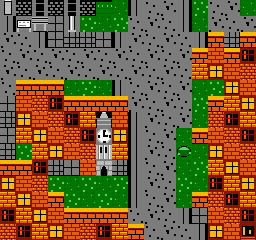
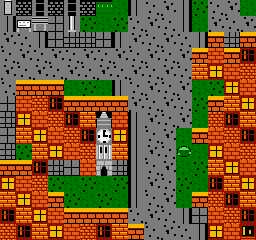
PARK-IN-THE-DARK-BAND: the walkable park leaves the light group, and check 13's exemption list goes empty (card t_b01c88ff)
Section 20.8 named this hole and carded it: card t_454c1876 moved the street under the party to the two dark entries
and left the park light, so the three walkable grass tiles were the only exemption tools/check_ts_exterior.py check 13
carried. They drew H $2A #58d854 at 0.518, and the party walks in near white bodies ($30 0.973, $31 0.704, $28 0.542),
which is the white blob RULE 0 point 2 refuses. Measured on the frame tools/art/make_exterior_maps.py composes for
Westminster, at the park cell the party can reach (map cell 14,24, --at 96,176), the four walking sheets failed 56
pairs on ground $2A: white_blob 24 and body_ground 32.

What changed.

- tools/art/make_ts_exterior.py: the three walkable grass tiles drop H and draw G $09 #007800 (0.134) as the field,
  D $0A #006800 (0.099) as the shade and the shared backdrop $0F (0.000) where the light accent was, in the same
  shapes. Per tile on the regenerated sheet: grass_a G 205 D 47 black 4, grass_b G 222 D 10 black 24, grass_c G 125
  D 127 black 4, worst walkable luminance 0.134. H stays solid-only (three tree canopies, two hedges, the green
  awning); bg2_green keeps all three entries, so no scene palette, no sprite row and no area budget moves.
- game/sprites_src/env/ts_exterior.png and .json: regenerated by that generator, which reproduces its own bytes.
- tools/check_ts_exterior.py: WALKABLE_LIGHT_EXEMPT is empty; check 13 holds all 20 walkable tiles with 0 exemptions.
[…]

diff --git a/tools/art/make_ts_exterior.py b/tools/art/make_ts_exterior.py
@@ -23,6 +23,16 @@ No tile a player can walk on draws either of them, and tools/check_ts_exterior.p
 tile. The three towns' spawn frames measured 36, 88 and 32 pair failures before this and 0 after
 (knowledge/PALETTE-RULINGS-2026-10-25.md section 20).
 
+THE PARK IS IN THE SAME BAND NOW, BY THE SAME MEASUREMENT (card t_b01c88ff, 2026-10-25). The park's three
+walkable tiles were the last exemption check 13 carried, because they filled with H $2A #58d854 at 0.518: a $30
+body on it measures white_blob and $28 measures body_ground. H is now off every walkable grass tile and stays
+only on the SOLID planting and the green awning, so bg2_green's three entries, every scene palette and every
+area budget are untouched. What is left under a player's feet is G $09 #007800 (0.134) as the field and D $0A
+#006800 (0.099) as its shade, with the shared backdrop $0F (0.000) taking over the role H played: the light
+accent became the dark accent, in the same shapes, so a tuft still reads at 3.68:1 against the field instead of
+3.09:1. Measured on the frame tools/art/make_exterior_maps.py composes for Westminster, at the park cell the
+party can reach, in knowledge/PALETTE-RULINGS-2026-10-25.md section 22.
+
 Background tiles on a NES are opaque: the PPU has no transparency on the background layer, so every street
 object here is drawn on its own ground (pavement grey under the phone box and the lamp, grass green under the
 tree and the hedge). That is also why a prop tile spends one of its 3 colours on its shadow ring.
@@ -59,6 +69,8 @@ PALETTES = {
     "bg4_red":   {"M": 0, "S": 22, "W": 48},      # $00 #7c7c7c (shared with stone), $16 #f83800, $30 #fcfcfc
     "bg5_plant": {"G": 9, "A": 7, "M": 0},        # $09 #007800, $07 #881400, $00 #7c7c7c (bark on grass)
 }
+# bg2_green's H is SOLID ONLY since card t_b01c88ff: the tree canopies, the hedges and the green awning keep it,
+# and no walkable grass tile draws it any more, because 0.518 is a light ground under RULE 0 point 2.
 BACKDROP_ENTRY = 15
 BACKDROP_HEX = "#000000"
 
@@ -215,6 +227,15 @@ def cobbles(pattern: int):
 
 
 def grass(variant: int):
+    """The park's walkable ground: G field, D shade, and the backdrop where the light accent used to be.
+
+    Card t_b01c88ff, 2026-10-25: these three tiles were check 13's only exemption because they drew H $2A at
+    0.518, a light ground under RULE 0 point 2, and the party walks in $30, $31 and $28. H is off every walkable
+    grass tile now and stays on the SOLID planting (tree canopies, hedges) and the green awning, so the shapes
+    below are the ones they always were with the LIGHT accent read as the DARK accent: the backdrop $0F at
+    0.000 where H was, at 3.68:1 against the field, and D $0A left holding the mid shade. Two greens 1.23:1
+    apart would have been a flat field, which is why the accent moved to black rather than to the shade.
+    """
     def build(g: Grid) -> None:
         g.fill("G")
         if variant == 0:
@@ -222,16 +243,16 @@ def grass(variant: int):
                 for x in (0, 6, 12):
                     g.rect(x, y, x + 1, y + 1, "D")
             for x, y in [(3, 7), (11, 3), (7, 13), (14, 10)]:
-                g.px(x, y, "H")
+                g.px(x, y, "k")
         elif variant == 1:
             for x, y in [(2, 2), (9, 2), (14, 6), (5, 8), (11, 11), (3, 14)]:
-                g.rect(x, y, x + 1, y + 1, "H")
+                g.rect(x, y, x + 1, y + 1, "k")
             for x, y in [(6, 4), (0, 10), (13, 15)]:
                 g.rect(x, y, x + 1, y + 1, "D")
         else:
-            g.checker("H", phase=1, step=2)
+            g.checker("D", phase=1, step=2)
             for x, y in [(1, 1), (8, 5), (4, 12), (12, 14)]:
-                g.px(x, y, "D")
+                g.px(x, y, "k")
     return build
 
 

diff --git a/tests/test_check_ts_exterior.py b/tests/test_check_ts_exterior.py
@@ -1,0 +1,80 @@
+"""Tests for tools/check_ts_exterior.py check 13, the walkable band (card t_b01c88ff).
+
+Why this file exists: check 13 refuses a ground at or above RULE 0 point 2's 0.25 light line under the party,
+whose four walking sheets carry near white bodies. Its only exemption was the park's grass, which drew H $2A
+#58d854 at 0.518. Card t_b01c88ff darkened the tile instead of weakening the check, so three things have to hold
+afterwards and each is arithmetic rather than a look:
+
+  - the exemption list is EMPTY, because a list with the park in it after the fix would permit exactly the thing
+    the check exists to stop;
+  - no walkable tile on ts_exterior.png draws an entry at or above 0.25 luminance, measured through the check's
+    own function and its own palette table;
+  - the ground under the judged park row on the composed Westminster frame is the two dark greens and the shared
+    backdrop, and nothing else, so the row that says "0 failing pairs" is measuring the park.
+
+Nothing in the suite ran check 13 before this file: the tool existed and was green, but a regeneration that put
+$2A back on the grass would have been caught only by whoever remembered to run it.
+"""
+
+from __future__ import annotations
+
+import json
+import os
+import sys
+
+from PIL import Image
+
+ROOT = os.path.dirname(os.path.dirname(os.path.abspath(__file__)))
+sys.path.insert(0, os.path.join(ROOT, "tools"))
+sys.path.insert(0, os.path.join(ROOT, "tools", "art"))
+
+import check_ts_exterior  # noqa: E402
+import contrast_check  # noqa: E402
+
+LIGHT_GROUND = 0.25
+PARK_CARD = "card t_b01c88ff"
+
+
+def tileset_meta() -> dict:
+    with open(os.path.join(ROOT, "game", "sprites_src", "env", "ts_exterior.json"),
+              encoding="utf-8-sig") as handle:
+        return json.load(handle)
+
+
+def park_row() -> dict:
+    """The judged row card t_b01c88ff wrote in westminster's scene file."""
+    with open(os.path.join(ROOT, "data", "palettes", "scene_westminster.json"),
+              encoding="utf-8-sig") as handle:
+        payload = json.load(handle)
+    rows = [row for row in payload.get("judged", []) if str(row.get("note", "")).startswith(PARK_CARD)]
+    assert len(rows) == 1, rows
+    return rows[0]
+
+
+def test_the_walkable_band_exemption_list_is_empty():
+    """The park was the last exemption. A new one has to be a decision in a diff, so this pins the list empty."""
+    assert check_ts_exterior.WALKABLE_LIGHT_EXEMPT == {}, (
+        "check 13 exempts %s; card t_b01c88ff closed the park and the list is meant to be empty"
+        % sorted(check_ts_exterior.WALKABLE_LIGHT_EXEMPT))
+
+
+def test_no_walkable_tile_draws_an_entry_at_or_above_the_light_line():
+    rep = check_ts_exterior.Report()
+    check_ts_exterior.check_walkable_band(ROOT, tileset_meta(), rep)
+    assert rep.fails == [], rep.fails
+    assert rep.lines and rep.lines[0].startswith("PASS"), rep.lines
+
+
+def test_the_park_ground_on_the_composed_frame_is_the_two_dark_greens():
+    row = park_row()
+    background = row["background"]
+    at = row["at"]
+    image = Image.open(os.path.join(ROOT, background.replace("/", os.sep))).convert("RGB")
+    box = (at[0], at[1], at[0] + 16, at[1] + 16)
+    colours = {"#%02x%02x%02x" % px for px in image.crop(box).getdata()}
+    assert colours <= {"#007800", "#006800", "#000000"}, (
+        "%s at %s carries %s; the walkable park is G $09, D $0A and the shared backdrop only"
+        % (background, at, sorted(colours)))
+    for hex_code in colours:
+        rgb = tuple(int(hex_code[i:i + 2], 16) for i in (1, 3, 5))
+        assert contrast_check.luminance(rgb) < LIGHT_GROUND, (hex_code, contrast_check.luminance(rgb))

diff --git a/tests/test_scene_palette_set.py b/tests/test_scene_palette_set.py
@@ -530,16 +530,35 @@ def test_each_town_judged_row_names_the_four_walking_sheets_on_its_own_frame():
     five background palettes and a scene spends four: measured 2026-10-25, it reports 7 palette_count problems
     on southampton and 4 on each of the other two, so as a ground it can never be clean and would charge its own
     background failures to the sprites standing on it (the defect card t_1dc346b9 ruled on).
+
+    Card t_b01c88ff added a SECOND row to westminster and only to westminster: the park, which is the ground the
+    party walks in and the one check 13 carried as an exemption until the grass was darkened. A row on the park
+    is where the light grass showed up as 56 failing pairs before the fix, so it is the number that says the fix
+    is real. The other two towns carry no park cell inside their 15 tile tall frames, which is why they hold no
+    such row rather than a row that measures pavement.
     """
     rows = [row for row in judged_rows() if row["scene"] in TOWNS]
-    assert len(rows) == 3, rows
-    for row in rows:
+    spawn = [row for row in rows if row["at"] == [128, 112]]
+    park = [row for row in rows if row["at"] != [128, 112]]
+    assert len(spawn) == 3, spawn
+    for row in spawn:
         assert row["background"] == "output/%s_sample_frame.png" % row["scene"], row["background"]
         assert row["at"] == [128, 112], row["at"]
         assert [os.path.basename(path) for path in row["sprites"]] == list(WALKING_SHEETS), row["sprites"]
         assert not row.get("exempt"), "the three towns carry the cast, so the rows are enforced, not exempt"
         assert not row.get("by_product"), row
         assert "ts_exterior" in row["note"], "the row has to say why the atlas is not the ground"
+    assert len(park) == 1, park
+    row = park[0]
+    assert row["scene"] == "westminster", row["scene"]
+    assert row["background"] == "output/westminster_sample_frame.png", row["background"]
+    # Map cell 14,24 is grass_a, reached from the spawn, and the frame crop starts at tile 8,13 (x0 8, y0 13).
+    assert row["at"] == [96, 176], row["at"]
+    assert [os.path.basename(path) for path in row["sprites"]] == list(WALKING_SHEETS), row["sprites"]
+    assert not row.get("exempt") and not row.get("by_product"), row
+    assert "t_b01c88ff" in row["note"] and "section 22" in row["note"], (
+        "the park row has to name the card and the ruling section that closed the exemption")
+    assert "0 failing pair(s)" in row["note"], row["note"]
 
 
 def test_the_towns_ground_is_the_frame_their_generator_writes():

diff --git a/tools/check_ts_exterior.py b/tools/check_ts_exterior.py
@@ -28,8 +28,10 @@ Every rule below is measured against the files on disk, not restated from the ge
     backdrop, and tools/nes_composite_check.py passes over each 256x240 frame. This tool does not restate the
     NES rules, it runs them.
 13. Every tile a player can walk on draws only entries under 0.25 luminance, because the party's walking bodies
-    are near white and RULE 0 point 2 refuses a near white body on a light ground. Named exemptions carry the
-    card that ends them (today: the park's grass, card t_b01c88ff).
+    are near white and RULE 0 point 2 refuses a near white body on a light ground. The exemption list is empty:
+    the park was its last member and the grass was darkened on card t_b01c88ff (knowledge/PALETTE-RULINGS-2026-10-25.md
+    section 22). The list stays in the tool so a future exemption is a decision that shows up in a diff with a
+    card name on it, not a quiet pass.
 
 Exit 0 when every check passes, 1 when any fails, with each failure on its own line.
 
@@ -61,10 +63,10 @@ MAP_W, MAP_H = 32, 30
 # white body 0.60). A ground at or above this luminance turns the party's $30, $31 and $28 bodies into the white
 # blob RULE 0 refuses, so no tile a player can walk on may draw an entry at or above it.
 LIGHT_GROUND = 0.25
-# Walkable tiles that are still light, each named with the card that ends the exemption. Measured 2026-10-25:
-# the park's grass draws H $2A #58d854 at 0.518, which is the same white blob hazard on a surface card
-# t_454c1876 did not touch (it moved the paving, not the park). Card t_b01c88ff closes it.
-WALKABLE_LIGHT_EXEMPT = {"grass_a": "t_b01c88ff", "grass_b": "t_b01c88ff", "grass_c": "t_b01c88ff"}
+# Walkable tiles still light, each named with the card that ends it. EMPTY since card t_b01c88ff: the park's
+# grass drew H $2A #58d854 at 0.518, the white blob hazard card t_454c1876 did not touch. The three walkable
+# grass tiles were darkened instead, not this check weakened; the list stays so an exemption shows in a diff.
+WALKABLE_LIGHT_EXEMPT: dict[str, str] = {}
 SAMPLE_MAPS = ("westminster_sample", "winchester_sample", "southampton_sample")
 CARD_FEATURES = [
     "road with centre line", "kerb", "pavement", "cobbles", "brick building walls (3 variants)",

diff --git a/knowledge/PALETTE-RULINGS-2026-10-25.md b/knowledge/PALETTE-RULINGS-2026-10-25.md
@@ -1858,3 +1858,141 @@ HEAD, `tools/art/make_env_ship.py`, `tools/art/make_ship_tiles.py`, `tests/test_
 `data/maps/ship_sample_tiled.json`, `knowledge/SHIP-PALETTE-DRIFT-2026-10-25.md`, and the commit history of all of
 them). No decompiled material was read for this card and no expression from any game is in it. Copied expression:
 none.
+
+## 22. The park leaves the light group: the walkable grass was the last exemption check 13 carried, and the fix is in the tile rather than in the check (card t_b01c88ff)
+
+Section 20.8 named this hole and carded it: the street under the party moved to the two dark entries, and the park stayed
+light. This section closes it with the same instrument the street was judged by, and it records the one design call that
+the card left open, which is what a park made of two greens that are 1.24:1 apart is supposed to look like.
+
+### 22.1 The numbers the card came with, re-measured through the tool
+
+All read from `tools/art/contrast_check.py`'s 2C02 table through `tools/palette_synergy.py`'s `Grid`, not restated:
+
+| entry | hex | luminance | row | hue | who wears it |
+| --- | --- | --- | --- | --- | --- |
+| `$2A` | `#58d854` | 0.518 | 2 | hue_A | the walkable grass before this card, and the tree canopies, hedges and green awning after it |
+| `$09` | `#007800` | 0.134 | 0 | hue_9 | `bg2_green`'s G, the park's field after this card |
+| `$0A` | `#006800` | 0.099 | 0 | hue_A | `bg2_green`'s D, the park's shade |
+| `$0F` | `#000000` | 0.000 | 0 | grey | the shared backdrop, the park's accent after this card |
+| `$00` | `#7c7c7c` | 0.202 | 0 | grey | the walkable street (section 20) |
+| `$30` | `#fcfcfc` | 0.973 | 3 | grey | percy's and hadrian's body |
+| `$31` | `#a4e4fc` | 0.704 | 3 | hue_1 | zander's body |
+| `$28` | `#f8b800` | 0.542 | 2 | hue_8 | konrad's body |
+
+Contrast between the candidate grounds and the four bodies, measured on this tree: `$30` on G 5.55:1 (3 rows), `$31` on G
+4.09:1 (3 rows), `$28` on G 3.21:1 (2 rows), and `$00` on G 1.36:1 (0 rows). That last line is the reason hadrian's suit
+had to move in section 20.5 rather than the street: a `$00` body clears no dark ground either.
+
+Three tiles carry the grass: `grass_a` (index 13), `grass_b` (14) and `grass_c` (62), all `bg2_green`, all `solid: false`
+in `game/sprites_src/env/ts_exterior.json`. `tools/art/make_exterior_maps.py` paints OSM park cells with `grass_a` and
+`grass_b` only (`remap_cell`, `name == "park"`), so a composed town frame can never show `grass_c`; check 13 still holds
+all three, because a later card can place the third variant without any measurement moving.
+
+### 22.2 The ground the party actually stands on, and what it measured
+
+The frame a town is judged on is a 16 by 15 tile crop around its spawn (`render_frame`), so whether a town can even show
+the park is arithmetic on its map. Measured on the three maps at this commit:
+
+| town | crop origin | spawn | park cells inside the frame | reachable from the spawn |
+| --- | --- | --- | --- | --- |
+| westminster | 8, 13 | 16, 20 | 31, every one of them walkable | 24, over 511 walkable cells |
+| southampton | 9, 11 | 17, 18 | 0 | 0 |
+| winchester | 8, 12 | 16, 19 | 0 | 0 |
+
+So Westminster is the only town that can hold a judged row about the park, and two of its park cells were measured. Before
+this card, on the frame HEAD ships, at `--at 96,176` (map cell 14,24, `grass_a`) and at `--at 80,176` (map cell 13,24,
+`grass_b`), the party's four walking sheets measured **56 failing pairs each**, every one of them on ground `$2A`:
+`white_blob` 24 and `body_ground` 32, which is percy 8 plus 8, konrad 8, zander 8 plus 8, hadrian 8 plus 8. The cast half
+was already clean (0 uncovered 8x8 tiles on all four sheets), so the 56 were the ground and nothing else.
+
+After the fix, on the regenerated frame, at the same two positions: **0 failing pairs, 0 cast problems**, every sheet's
+body on ground `$09`, `$0A` and `$0F`.
+
+### 22.3 Q1: what a walkable park can be made of
+
+`bg2_green` is `$09 $0A $2A` and the row does not move (section 22.5). Under RULE 0 point 2's 0.25 line exactly two of its
+three entries are legal under a foot: G `$09` at 0.134 and D `$0A` at 0.099, plus the shared backdrop `$0F` at 0.000,
+which every palette row shares and which the street already uses for its joints (section 20.4). The light `$2A` at 0.518
+is legal exactly where nothing walks on it, and that is where it stays: the three tree canopies, the two hedges and the
+green awning, all `solid: true`.
+
+The card's first price was this one, and the measurement agrees with it. Its second price (a second, darker walking triple
+for the party) is refused by the hardware for the reason section 16.6 and section 20.7 already gave: a scene has four
+sprite palettes, all four are the party's walking triples here, and there is no fifth row to darken.
+
+### 22.4 Q2: the call the card left open, which is how a tuft is drawn in this band
+
+Two greens 1.24:1 apart are one tone. Filling the park with G and putting D where the old art had shade would have made a
+flat field with invisible texture, and it would have thrown away the shape of the three variants, which are the ground
+noise the maps rely on. The light accent H was 3.08:1 against the field, and the only entry left in this palette that
+clears 3:1 against G is the shared backdrop at 3.69:1. So the light accent became the dark accent, in the same shapes:
+`grass_a` puts a single black fleck where it put a single light fleck, `grass_b` puts a 2 by 2 black clump where it put a
+2 by 2 light clump, and `grass_c` keeps its 2 pixel checker as a G/D dither and puts the four black flecks where its shade
+flecks were. Counted on the regenerated sheet, per tile:
+
+| tile | G `$09` | D `$0A` | backdrop `$0F` | worst luminance |
+| --- | --- | --- | --- | --- |
+| `grass_a` | 205 | 47 | 4 | 0.134 |
+| `grass_b` | 222 | 10 | 24 | 0.134 |
+| `grass_c` | 125 | 127 | 4 | 0.134 |
+
+No tile spends more than 2 colours besides the backdrop, so the 3 colour area rule and the 25 colour frame ceiling are
+untouched, and the sheet's own colour count stays 14.
+
+### 22.5 What landed, measured before and after
+
+**Landed.**
+
+- `tools/art/make_ts_exterior.py`: the three walkable grass tiles, the header note with the measured numbers, and the
+  comment beside `bg2_green` that says H is now solid-only.
+- `game/sprites_src/env/ts_exterior.png` and `.json`, regenerated by that generator. The json's per-tile `entries` for the
+  three grass tiles now read `9, 10, 15` with the matching hexes, which is the generator describing what it drew.
+- `output/westminster_sample_frame.png`, regenerated by `tools/art/make_exterior_maps.py`. The two other towns' frames
+  come out byte-identical to HEAD, which is the table in 22.2 seen from the other side.
+- `tools/check_ts_exterior.py`: `WALKABLE_LIGHT_EXEMPT` is empty, and check 13's docstring and comment say so.
+- `data/palettes/scene_westminster.json`: a second judged row, the park at `--at 96,176`, with the party's four walking
+  sheets, the 56 before and the 0 after written into its note.
+- `data/scene_palettes.json`: that row as the tenth audit entry, from `scene_palette_set.py build --write`. Nothing else
+  in the file moves.
+- `tests/test_check_ts_exterior.py`: three rows over check 13, its empty exemption list and the park's ground colours,
+  because no test in the suite ran that check before this card.
+- `tests/test_scene_palette_set.py`: the town row format holds three spawn rows and the one park row, with its map cell,
+  its cast and the card in its note.
+- `knowledge/DEVLOG.md`: one entry.
+
+**Measured.**
+
+- `python tools/check_ts_exterior.py`: **58 checks passed, 0 failed**, exit 0, check 13 PASS over all 20 walkable tiles
+  with 0 exemptions. It was 61 checks with 3 EXEMPT lines before, and the 3 that left are exactly those lines.
+- `python tools/palette_synergy.py --gate`: 9 entry(ies), 0 gated failure(s), 2 advisory failure(s), 1 not measured
+  before; **10 entry(ies), 0 gated failure(s), 2 advisory failure(s), 1 not measured** after. The entry count rises by
+  one because this card adds one judged row, and the two advisories are the `battle_corridor` and `title` readings of the
+  title frame, which this card does not touch. Westminster now appears twice and both of its rows PASS with 0 fails.
+- `python tools/scene_palette_set.py validate`: PASS, 12 scene(s), 4 hero palette(s).
+- Both generators reproduce their own output byte for byte on a second run (md5 of the scene file, the tileset and the
+  frame unchanged on the rerun).
+- The judged row at `--at 96,176` and at `--at 80,176`, four sheets each: 0 failing pairs, 0 cast problems, ground `$09`,
+  `$0A` and `$0F`.
+
+### 22.6 What this does not decide
+
+- **Whether it looks like grass.** A park made of a 0.134 field, a 0.099 shade and black tufts is what the measurement
+  allows, and it was drawn in the shapes the old art used. Whether that reads as grass on a CRT is not measured by this
+  card, the same open question section 20.8 left for the street. A screenshot card is the honest next step.
+- **`grass_c` is measured only at the tile level.** No map places it, so no judged frame can stand a party on it. Check
+  13 holds it; a row would need a map that paints it.
+- **The other two towns' parks.** Their crops carry no park cell (table, 22.2), so their grass is held by check 13 and by
+  the fact that the tiles are the same three tiles, not by a judged frame of their own.
+- **No build and no hardware capture.** GameMaker is not installed on this machine, so these are pixel, palette and ground
+  measurements through the project's own tools. `tools/nes_composite_check.py` is run over the three frames by check 12
+  and passes; nothing here claims more than that.
+- **Section 21 landed while this section was being measured.** Card `t_23b5739a` committed it as `080dc56`, so this
+  section was re-applied on top of that commit rather than merged beside it, and the two are in this file in order.
+
+Provenance for section 22: studied this repository's own files only (`tools/palette_synergy.py`,
+`tools/check_ts_exterior.py`, `tools/art/make_ts_exterior.py`, `tools/art/make_exterior_maps.py`,
+`tools/art/contrast_check.py`, `tools/scene_palette_set.py`, `knowledge/ART-BIBLE.md`, `data/nes_palette.json`,
+`data/palettes/scene_westminster.json`, `scene_southampton.json`, `scene_winchester.json`,
+`game/sprites_src/env/ts_exterior.json`, the tileset, the four walking sheets, and the commit history of all of them). No
+decompiled material was read for this card and no expression from any game is in it. Copied expression: none.

diff --git a/knowledge/PROVENANCE.md b/knowledge/PROVENANCE.md
@@ -1784,3 +1784,27 @@ Our implementation differs by: the pin is generic in the writer (`background_pin
 beside it, and the design move itself is deferred to a redraw card with both sides of the trade written down
 (ruling section 21.3) instead of being taken here on 137 pixels of art that no map places.
 Copied expression: none
+
+## PARK-IN-THE-DARK-BAND, 2026-10-25: a walkable ground is chosen by the bodies that stand on it, and the last exemption closes in the tile (card t_b01c88ff)
+Studied: this repository's own files, read only: `tools/palette_synergy.py`, `tools/check_ts_exterior.py`,
+`tools/art/make_ts_exterior.py`, `tools/art/make_exterior_maps.py`, `tools/art/contrast_check.py`,
+`tools/scene_palette_set.py`, `knowledge/ART-BIBLE.md` RULE 0 point 2, `knowledge/PALETTE-RULINGS-2026-10-25.md`
+sections 16.6, 20 and 20.8, `data/nes_palette.json`, the three town scene files, `game/sprites_src/env/ts_exterior.json`,
+the tileset and the four walking sheets. No decompiled material was read for this card and no expression from any game
+is in it.
+Mechanics learned: three. One, an exemption list is only as strong as the card name on each entry, and the entry has to
+be closed in the art rather than in the tool: check 13 already printed "EXEMPT grass_a/b/c ... carded as t_b01c88ff", so
+the work was to darken the tile and empty the list in one commit, because a list that keeps a fixed tile after the fix
+is a check that quietly permits exactly what it exists to stop. Two, a two tone ground inside a fixed three entry row
+needs its accent from outside that row: bg2_green's two legal entries are 1.24:1 apart, so the texture moved to the
+shared backdrop (3.69:1 against the field, 2.98:1 against the shade) rather than to the shade, and the backdrop costs no
+entry because every palette row already shares it. Three, a judged row can only be written where the composed crop can
+see the ground: the town frame is a 16 by 15 tile crop around the spawn, so of the three towns only Westminster carries
+park cells inside it (31 of them, 24 reachable from the spawn over 511 walkable cells), and a row written for the other
+two would measure pavement and prove nothing.
+Our implementation differs by: the park keeps bg2_green's three entries and loses its light accent instead of buying a
+second walking triple for the party, which the four sprite palettes per scene do not have room for (sections 16.6 and
+20.7); the accent that used to be light is now the backdrop, drawn in the shapes the old art already used, so the
+variants stay distinguishable without a fourth colour; and the measurement lives in a new test file as well as in the
+check, because nothing in this suite ran check 13 before this card.
+Copied expression: none
